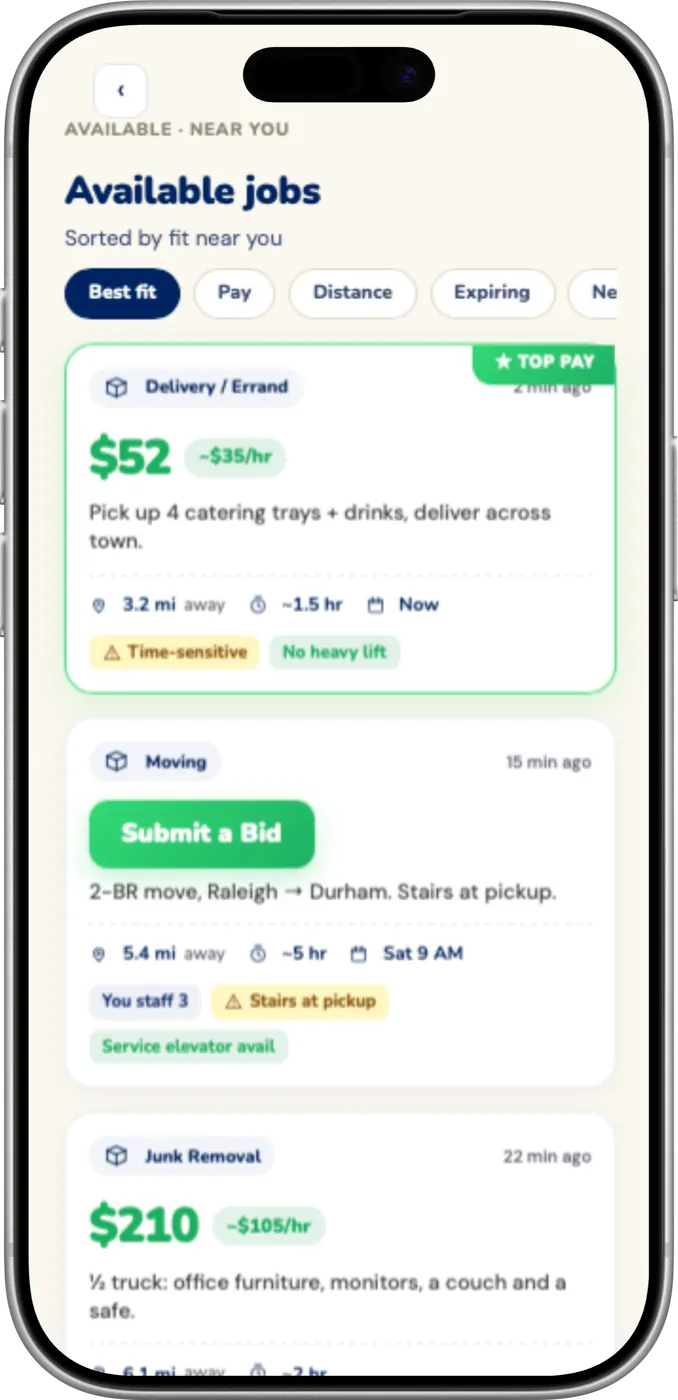
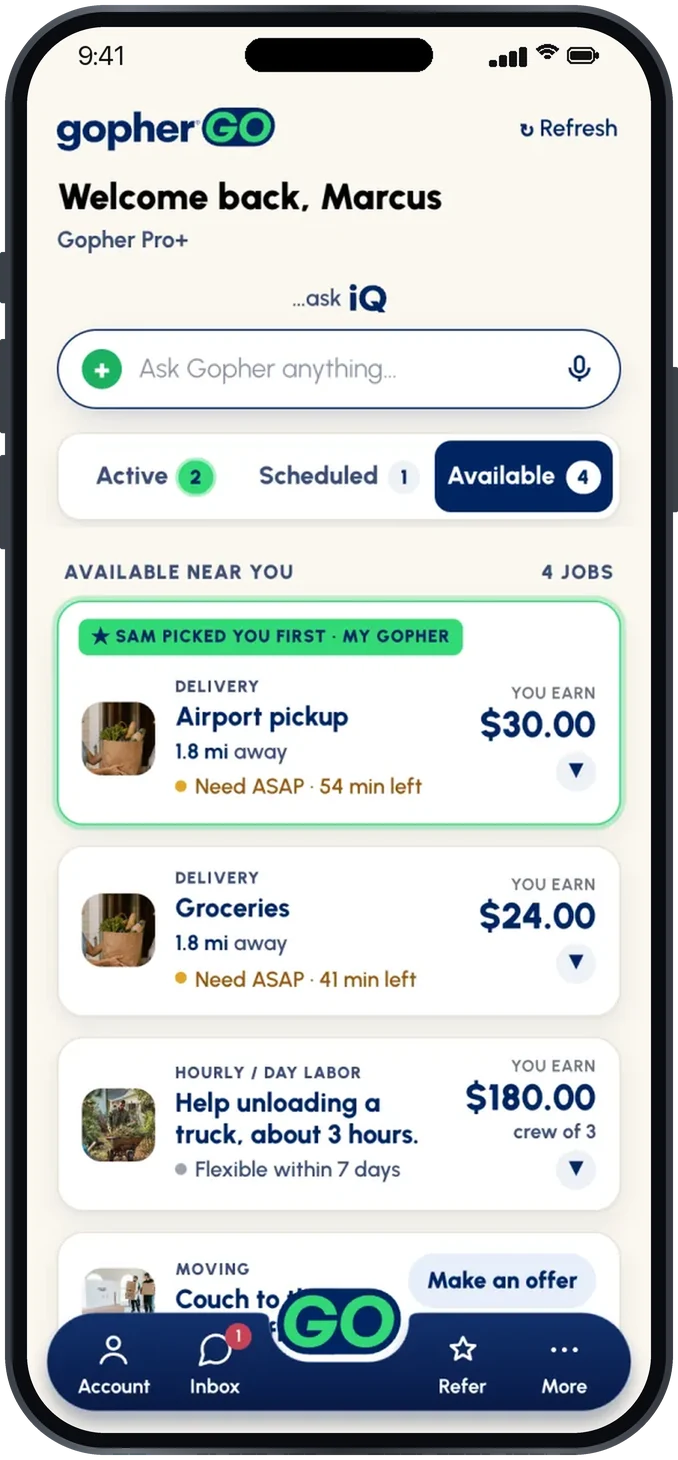
Deploy: Gopher Go page shows the real Go app (hero, Refer Yourself, job feed) (John's go 10/15)

diff --git a/gopher-go.html b/gopher-go.html
@@ -341,105 +341,20 @@
   .jobfeed .sec-title { color:white; }
   .jobfeed .sec-sub { color:rgba(255,255,255,0.6); }
 
-  .feed-grid {
-    display:grid; grid-template-columns:repeat(3,1fr); gap:16px;
-    position:relative;
-  }
-  .feed-col { display:flex; flex-direction:column; gap:16px; }
-  /* ── JOB CARDS (Figma component states) ── */
-  .job-card {
-    position:relative;
-    background:#fff;
-    border:1px solid #edf0f5;
-    border-radius:18px;
-    padding:15px;
-    display:flex; flex-direction:column; gap:5px;
-    box-shadow:0 3px 7px rgba(0,36,97,0.06);
-    overflow:hidden;
-    transition:transform 0.2s ease, box-shadow 0.2s ease;
-    cursor:default;
-  }
-  .job-card:hover { transform:translateY(-3px); box-shadow:0 10px 22px rgba(0,36,97,0.14); }
-  /* Top-Pay accent variant */
-  .job-card.is-toppay { border-color:#33d975; box-shadow:0 6px 10px rgba(51,217,117,0.2); }
-
-  .jc-top { display:flex; gap:6px; align-items:center; }
-  .jc-cat {
-    display:inline-flex; align-items:center; gap:7px;
-    background:#f2f4f9; border-radius:99px; padding:5px 9px 5px 8px;
-    flex-shrink:0;
-  }
-  .jc-cat svg { width:15px; height:15px; color:var(--green-dark); flex-shrink:0; }
-  .jc-cat span { font-family:'Nunito',sans-serif; font-weight:800; font-size:11px; color:var(--navy); white-space:nowrap; }
-  .jc-posted { margin-left:auto; font-family:'DM Sans',sans-serif; font-weight:600; font-size:10.5px; color:#6b7280; white-space:nowrap; }
-
-  .jc-pay { display:flex; align-items:center; gap:8px; min-height:40px; padding:11px 0 5px; }
-  .jc-pay .amt { font-family:'Nunito',sans-serif; font-weight:900; font-size:30px; line-height:30px; letter-spacing:-1px; color:var(--green-dark); }
-  .jc-pay .per { background:#e2f3e9; border-radius:99px; padding:4px 9px; font-family:'Nunito',sans-serif; font-weight:900; font-size:12px; color:var(--green-dark); }
-  .bid-cta {
-    display:inline-flex; align-items:center; padding:10px 20px; border-radius:12px;
-    background:linear-gradient(135deg, #33d975 0%, #1cb061 100%);
-    box-shadow:0 6px 8px rgba(51,217,117,0.35);
-    font-family:'Nunito',sans-serif; font-weight:900; font-size:16px; color:#fff;
-  }
-
-  .jc-scope { font-family:'DM Sans',sans-serif; font-weight:500; font-size:13px; color:#424242; line-height:18.2px; padding-bottom:6px; }
-
-  .jc-stats { display:flex; flex-wrap:wrap; gap:6px 14px; border-top:1px dashed #e7eaf1; padding-top:11px; }
-  .jc-stat { display:inline-flex; align-items:center; gap:6px; }
-  .jc-stat svg { width:12px; height:12px; color:var(--green-dark); flex-shrink:0; }
-  .jc-stat b { font-family:'Nunito',sans-serif; font-weight:700; font-size:11.5px; color:var(--navy); }
-  .jc-stat small { font-family:'Nunito',sans-serif; font-weight:600; font-size:9.6px; color:#6b7280; margin-left:-2px; }
-
-  .jc-flags { display:flex; flex-wrap:wrap; gap:6px; padding-top:6px; }
+  /* ── Real Gopher Go screens (owner 10/15) — replaced the HTML job-card
+     mock-up and its ~95 lines of card/lock/flag-variant styles. ── */
+  .feed-phones { display:flex; justify-content:center; gap:32px; margin:40px 0 0; }
+  .feed-phones figure { margin:0; flex:0 1 260px; text-align:center; }
+  .feed-phones img { width:100%; max-width:260px; height:auto; display:block; margin:0 auto;
+    filter:drop-shadow(0 22px 40px rgba(0,0,0,0.45)); }
+  .feed-phones figcaption { margin-top:14px; font-family:'Nunito',sans-serif; font-weight:800;
+    font-size:14px; color:rgba(255,255,255,0.82); }
+  /* .flag is still used elsewhere on this page */
   .flag {
     display:inline-flex; align-items:center; gap:4px; padding:4px 8px; border-radius:7px;
     font-family:'Nunito',sans-serif; font-weight:800; font-size:10px; white-space:nowrap;
   }
   .flag svg { width:12px; height:12px; flex-shrink:0; }
-  .flag.f-warn { background:#fff7c2; color:#92580d; }
-  .flag.f-good { background:#e2f3e9; color:#1cb061; }
-  .flag.f-info { background:#eef1f7; color:#1a3a7a; }
-  .flag.f-iq { background:#fff; border:1px dashed currentColor; padding:5px 9px; }
-  .flag.f-iq.iq-warn { color:#92580d; }
-  .flag.f-iq.iq-info { color:#1a3a7a; }
-  .iqm { display:inline-flex; align-items:center; justify-content:center; padding:1px 4px; border-radius:4px; background:currentColor; }
-  .iqm span { font-family:'Nunito',sans-serif; font-weight:900; font-size:8px; letter-spacing:0.3px; color:#fff; }
-
-  /* Ribbons (top-right) */
-  /* ── Corner rail (canonical, ported from assets/css/gopher-connect-uc.css +
-     the Go prototype). The source mark is a FRAMED WHITE PILL sitting IN the top
-     row, not a flush ribbon: 15px lockup, 4px/8px padding, 9px radius, hairline
-     border, soft shadow — identical sizing for the Connect and Deals marks.
-     The rail is a COLUMN so a TOP PAY badge stacks ABOVE the source mark instead
-     of colliding with it (owner, 2026-08-26), and `posted` moved to .jc-foot so
-     nothing crowds the corner. */
-  .jc-corner { margin-left:auto; display:inline-flex; flex-direction:column;
-    align-items:flex-end; gap:7px; flex:0 0 auto; }
-  .jc-badge { display:inline-flex; align-items:center; gap:5px; border-radius:9px; }
-  .jc-badge.mark { background:#fff; border:1px solid #e4e8f0; padding:4px 8px;
-    box-shadow:0 1px 3px rgba(0,36,97,.08); }
-  .jc-badge.mark img { height:15px; width:auto; display:block; }
-  .jc-badge.mark .lk { display:inline-flex; width:11px; height:11px; color:#7a869a; }
-  .jc-badge.mark .lk svg { width:11px; height:11px; display:block; }
-  .jc-badge.top { background:linear-gradient(135deg,#33d975 0%,#1cb061 100%); color:#fff;
-    font-family:'Nunito',sans-serif; font-weight:900; font-size:9.5px; letter-spacing:.3px;
-    padding:5px 10px; white-space:nowrap; }
-  /* the category chip yields rather than pushing the rail off the card */
-  .jc-top .jc-cat { flex:0 1 auto; min-width:0; overflow:hidden; text-overflow:ellipsis; white-space:nowrap; }
-  .jc-foot { display:flex; align-items:center; justify-content:space-between; gap:10px; margin-top:11px; }
-  .jc-foot .jc-flags { padding-top:0; flex:1 1 auto; }
-  .jc-foot .jc-posted { margin-left:auto; flex:0 0 auto; }
-
-  /* Locked states */
-  .lockwrap { opacity:0.45; display:flex; flex-direction:column; gap:5px; filter:saturate(0.6); }
-  .lock-cta {
-    display:flex; align-items:center; gap:8px; background:#eef0f8; border-radius:11px; padding:9px 11px; margin-top:6px;
-  }
-  .lock-cta > svg { width:13px; height:13px; color:var(--navy); flex-shrink:0; }
-  .lock-cta p { font-family:'Nunito',sans-serif; font-weight:800; font-size:11.5px; color:var(--navy); line-height:1.25; flex:1; }
-  .lock-cta p b { font-family:'Nunito',sans-serif; font-weight:900; color:var(--green-dark); }
-  .lock-cta .lgo { background:var(--green-dark); border-radius:99px; padding:6px 11px; font-family:'Nunito',sans-serif; font-weight:900; font-size:11px; color:#fff; white-space:nowrap; flex-shrink:0; }
 
   .feed-cta { text-align:center; margin-top:40px; }
   .feed-cta p { color:rgba(255,255,255,0.55); font-size:15px; margin-bottom:20px; }
@@ -517,27 +432,12 @@
 
   /* Share-card visual */
   .gg-feature-visual { display:flex; justify-content:center; }
-  .gg-share-card {
-    width:100%; max-width:300px; background:#fff; border-radius:20px;
-    padding:26px 24px; box-shadow:0 20px 50px rgba(0,0,0,0.4);
+  /* Real app screen in place of the old HTML share card (owner 10/15). */
+  .gg-feature-phone {
+    width:100%; max-width:260px; height:auto; display:block;
+    filter:drop-shadow(0 20px 50px rgba(0,0,0,0.45));
     animation:ggFloat 5s ease-in-out infinite;
   }
-  .gg-share-top { display:flex; align-items:center; justify-content:space-between; margin-bottom:18px; }
-  .gg-share-label { font-family:'Nunito',sans-serif; font-weight:800; font-size:13px; color:var(--navy); }
-  .gg-share-dot { width:9px; height:9px; border-radius:50%; background:var(--green); animation:blink 1.6s infinite; }
-  .gg-qr { display:flex; justify-content:center; padding:10px 0 16px; }
-  .gg-qr img { width:150px; height:auto; display:block; }
-  .gg-share-link {
-    text-align:center; font-family:'DM Sans',sans-serif; font-size:14px;
-    color:var(--muted); background:var(--gray); border-radius:8px; padding:9px;
-    margin-bottom:16px;
-  }
-  .gg-share-link strong { color:var(--green-dark); }
-  .gg-share-foot {
-    display:flex; align-items:center; justify-content:center; gap:8px;
-    font-family:'Nunito',sans-serif; font-weight:700; font-size:12.5px; color:var(--navy);
-  }
-  .gg-share-pulse { width:8px; height:8px; border-radius:50%; background:var(--green); box-shadow:0 0 0 0 rgba(51,217,117,0.6); animation:ggPulse 1.8s infinite; }
 
   /* Supporting feature cards */
   .gg-grid { display:grid; grid-template-columns:repeat(3,1fr); gap:22px; }
@@ -560,7 +460,7 @@
   @keyframes ggFloat { 0%,100% { transform:translateY(0); } 50% { transform:translateY(-10px); } }
   @keyframes ggPulse { 0% { box-shadow:0 0 0 0 rgba(51,217,117,0.5); } 70% { box-shadow:0 0 0 10px rgba(51,217,117,0); } 100% { box-shadow:0 0 0 0 rgba(51,217,117,0); } }
   @media (prefers-reduced-motion: reduce) {
-    .gg-feature, .gg-share-card, .gg-share-pulse, .gg-share-dot { animation:none; }
+    .gg-feature, .gg-feature-phone { animation:none; }
   }
 
   /* ── HOW IT WORKS ── */
@@ -728,11 +628,14 @@
     .hero-phone { order:2; }
     .device { width:250px; }
     .pillars { grid-template-columns:1fr 1fr; }
-    .feed-grid { grid-template-columns:1fr; }
+    /* phones: swipe sideways, one and a bit on screen */
+    .feed-phones { justify-content:flex-start; overflow-x:auto; scroll-snap-type:x mandatory; gap:18px; padding-bottom:8px; }
+    .feed-phones figure { flex:0 0 72%; scroll-snap-align:center; }
     .gg-grid { grid-template-columns:1fr; }
     .gogetter { padding:64px 24px; }
     .gg-feature { grid-template-columns:1fr; gap:36px; padding:32px 26px; }
     .gg-feature-visual { order:-1; }
+    .gg-feature-phone { max-width:200px; }
     .gg-feature-copy h3 { font-size:32px; }
     .gg-feature-cta { flex-direction:column; align-items:flex-start; gap:16px; }
     .free-strip-inner { gap:18px; }
@@ -1209,75 +1112,16 @@
     <p class="sec-label">Real jobs, right now</p>
     <h2 class="sec-title" style="color:white">From $10 errands to<br>$500 paydays.</h2>
     <p class="sec-sub">A taste of what Gophers pick up every day. Hundreds post across the US — these could be in your feed by tonight.</p>
-    <div class="feed-grid">
-      <div class="feed-col">
-        <div class="job-card is-toppay">
-          <div class="jc-top"><span class="jc-cat"><svg viewBox="0 0 24 24" fill="currentColor"><path d="M12 2l1.8 5.2L19 9l-5.2 1.8L12 16l-1.8-5.2L5 9l5.2-1.8L12 2Z"/></svg><span>Seasonal</span></span><span class="jc-corner"><span class="jc-badge top">&#9733; TOP PAY</span></span></div>
-          <div class="jc-pay"><span class="amt">$275</span><span class="per">~$55/hr</span></div>
-          <div class="jc-scope">Install Christmas lights on my 2-story house. All lights and hooks ready to go.</div>
-          <div class="jc-stats"><span class="jc-stat"><svg viewBox="0 0 24 24" fill="none" stroke="currentColor" stroke-width="2.2" stroke-linecap="round" stroke-linejoin="round"><path d="M12 21s-7-6.5-7-11a7 7 0 0 1 14 0c0 4.5-7 11-7 11Z"/><circle cx="12" cy="10" r="2.3"/></svg><b>2.4 mi</b><small>away</small></span><span class="jc-stat"><svg viewBox="0 0 24 24" fill="none" stroke="currentColor" stroke-width="2.2" stroke-linecap="round" stroke-linejoin="round"><circle cx="12" cy="12" r="9"/><path d="M12 7.5V12l3 2"/></svg><b>~5 hr</b></span><span class="jc-stat"><svg viewBox="0 0 24 24" fill="none" stroke="currentColor" stroke-width="2.2" stroke-linecap="round" stroke-linejoin="round"><rect x="4" y="5" width="16" height="16" rx="2"/><path d="M8 3v4M16 3v4M4 10h16"/></svg><b>This week</b></span></div>
-          <div class="jc-foot">
-<div class="jc-flags"><span class="flag f-warn"><svg viewBox="0 0 24 24" fill="currentColor"><path d="M13 2 4 14h6l-1 8 9-12h-6l1-8Z"/></svg>Ladder needed</span><span class="flag f-good">Materials ready</span></div>
-<span class="jc-posted">3 min ago</span>
-</div>
-        </div>
-        <div class="job-card">
-          <div class="jc-top"><span class="jc-cat"><svg viewBox="0 0 24 24" fill="none" stroke="currentColor" stroke-width="2" stroke-linecap="round" stroke-linejoin="round"><path d="M15.5 4.5a4 4 0 0 0-5.3 5.1l-6.2 6.2 2.8 2.8 6.2-6.2a4 4 0 0 0 5.1-5.3l-2.6 2.6-2.1-2.1 2.1-2.1Z"/></svg><span>Hourly / Day Labor</span></span><span class="jc-corner"><span class="jc-badge mark connect"><span class="lk"><svg viewBox="0 0 24 24" fill="none" stroke="currentColor" stroke-width="2.2" stroke-linecap="round" stroke-linejoin="round"><rect x="5" y="11" width="14" height="9" rx="2"/><path d="M8 11V8a4 4 0 0 1 8 0v3"/></svg></span><img src="assets/img/connect-mark.png" alt="Gopher Connect"></span></span></div>
-<div class="lockwrap">
-                        <div class="jc-pay"><span class="amt">$200</span><span class="per">~$50/hr</span></div>
-            <div class="jc-scope">Need 2 people for 2 hrs to break down tables &amp; chairs after a wedding reception.</div>
-            <div class="jc-stats"><span class="jc-stat"><svg viewBox="0 0 24 24" fill="none" stroke="currentColor" stroke-width="2.2" stroke-linecap="round" stroke-linejoin="round"><path d="M12 21s-7-6.5-7-11a7 7 0 0 1 14 0c0 4.5-7 11-7 11Z"/><circle cx="12" cy="10" r="2.3"/></svg><b>4.0 mi</b><small>away</small></span><span class="jc-stat"><svg viewBox="0 0 24 24" fill="none" stroke="currentColor" stroke-width="2.2" stroke-linecap="round" stroke-linejoin="round"><circle cx="12" cy="12" r="9"/><path d="M12 7.5V12l3 2"/></svg><b>~2 hr</b></span></div>
-            <div class="jc-foot">
-<div class="jc-flags"><span class="flag f-info">1 of 2 crew</span></div>
-<span class="jc-posted">19 min ago</span>
-</div>
-          </div>
-          <div class="lock-cta"><svg viewBox="0 0 24 24" fill="none" stroke="currentColor" stroke-width="2.2" stroke-linecap="round" stroke-linejoin="round"><rect x="5" y="11" width="14" height="9" rx="2"/><path d="M8 11V8a4 4 0 0 1 8 0v3"/></svg><p>Connect job &mdash; for <b>Gopher Elite &amp; Pros</b></p><span class="lgo">Tier up</span></div>
-        </div>
-      </div>
-      <div class="feed-col">
-        <div class="job-card">
-          <div class="jc-top"><span class="jc-cat"><svg viewBox="0 0 24 24" fill="none" stroke="currentColor" stroke-width="2" stroke-linecap="round" stroke-linejoin="round"><path d="M2 7h11v9H2zM13 10h4l3 3v3h-7z"/><circle cx="6" cy="18" r="1.7"/><circle cx="17" cy="18" r="1.7"/></svg><span>Moving</span></span></div>
-          <div class="jc-pay"><span class="bid-cta">Submit a Bid</span></div>
-          <div class="jc-scope">Need 2 people to move me from a small 1-bedroom apartment to another 1-bedroom across town. Not much stuff &mdash; just need the muscle.</div>
-          <div class="jc-stats"><span class="jc-stat"><svg viewBox="0 0 24 24" fill="none" stroke="currentColor" stroke-width="2.2" stroke-linecap="round" stroke-linejoin="round"><path d="M12 21s-7-6.5-7-11a7 7 0 0 1 14 0c0 4.5-7 11-7 11Z"/><circle cx="12" cy="10" r="2.3"/></svg><b>5.4 mi</b><small>away</small></span><span class="jc-stat"><svg viewBox="0 0 24 24" fill="none" stroke="currentColor" stroke-width="2.2" stroke-linecap="round" stroke-linejoin="round"><circle cx="12" cy="12" r="9"/><path d="M12 7.5V12l3 2"/></svg><b>~3 hr</b></span><span class="jc-stat"><svg viewBox="0 0 24 24" fill="none" stroke="currentColor" stroke-width="2.2" stroke-linecap="round" stroke-linejoin="round"><rect x="4" y="5" width="16" height="16" rx="2"/><path d="M8 3v4M16 3v4M4 10h16"/></svg><b>Sat 9 AM</b></span></div>
-          <div class="jc-foot">
-<div class="jc-flags"><span class="flag f-info">You staff 2</span><span class="flag f-warn"><svg viewBox="0 0 24 24" fill="none" stroke="currentColor" stroke-width="2" stroke-linecap="round" stroke-linejoin="round"><path d="M4 20h4v-4h4v-4h4V8h4"/></svg>Stairs at pickup</span></div>
-<span class="jc-posted">8 min ago</span>
-</div>
-        </div>
-        <div class="job-card">
-          <div class="jc-top"><span class="jc-cat"><svg viewBox="0 0 24 24" fill="none" stroke="currentColor" stroke-width="2" stroke-linecap="round" stroke-linejoin="round"><path d="M3 21l8-8M13 7l4 4 3.5-3.5-4-4L13 7Z"/><path d="M11 9l4 4"/></svg><span>Handyman</span></span></div>
-          <div class="jc-pay"><span class="amt">$75</span><span class="per">~$50/hr</span></div>
-          <div class="jc-scope">Hang a 65&quot; TV. I have the mount. Drywall install, one-story home.</div>
-          <div class="jc-stats"><span class="jc-stat"><svg viewBox="0 0 24 24" fill="none" stroke="currentColor" stroke-width="2.2" stroke-linecap="round" stroke-linejoin="round"><path d="M12 21s-7-6.5-7-11a7 7 0 0 1 14 0c0 4.5-7 11-7 11Z"/><circle cx="12" cy="10" r="2.3"/></svg><b>3.1 mi</b><small>away</small></span><span class="jc-stat"><svg viewBox="0 0 24 24" fill="none" stroke="currentColor" stroke-width="2.2" stroke-linecap="round" stroke-linejoin="round"><circle cx="12" cy="12" r="9"/><path d="M12 7.5V12l3 2"/></svg><b>~1.5 hr</b></span></div>
-          <div class="jc-foot">
-<div class="jc-flags"><span class="flag f-info">Mount supplied</span><span class="flag f-iq iq-warn"><span class="iqm"><span>iQ</span></span>Heavy item</span><span class="flag f-iq iq-info"><span class="iqm"><span>iQ</span></span>Stud-mount</span></div>
-<span class="jc-posted">11 min ago</span>
-</div>
-        </div>
-      </div>
-      <div class="feed-col">
-        <div class="job-card">
-          <div class="jc-top"><span class="jc-cat"><svg viewBox="0 0 24 24" fill="none" stroke="currentColor" stroke-width="2" stroke-linecap="round" stroke-linejoin="round"><path d="M6 7h12l1 13H5L6 7Z"/><path d="M9 7a3 3 0 0 1 6 0"/></svg><span>Delivery / Errand</span></span></div>
-          <div class="jc-pay"><span class="amt">$50</span><span class="per">~$40/hr</span></div>
-          <div class="jc-scope">Anniversary emergency! Need a bouquet delivered. Text me pics of what&rsquo;s available, $60&ndash;$80.</div>
-          <div class="jc-stats"><span class="jc-stat"><svg viewBox="0 0 24 24" fill="none" stroke="currentColor" stroke-width="2.2" stroke-linecap="round" stroke-linejoin="round"><path d="M12 21s-7-6.5-7-11a7 7 0 0 1 14 0c0 4.5-7 11-7 11Z"/><circle cx="12" cy="10" r="2.3"/></svg><b>1.8 mi</b><small>away</small></span><span class="jc-stat"><svg viewBox="0 0 24 24" fill="none" stroke="currentColor" stroke-width="2.2" stroke-linecap="round" stroke-linejoin="round"><circle cx="12" cy="12" r="9"/><path d="M12 7.5V12l3 2"/></svg><b>~1 hr</b></span><span class="jc-stat"><svg viewBox="0 0 24 24" fill="currentColor"><path d="M13 2 4 14h6l-1 8 9-12h-6l1-8Z"/></svg><b>Now</b></span></div>
-          <div class="jc-foot">
-<div class="jc-flags"><span class="flag f-warn"><svg viewBox="0 0 24 24" fill="currentColor"><path d="M13 2 4 14h6l-1 8 9-12h-6l1-8Z"/></svg>Time-sensitive</span><span class="flag f-good">No heavy lift</span></div>
-<span class="jc-posted">4 min ago</span>
-</div>
-        </div>
-        <div class="job-card">
-          <div class="jc-top"><span class="jc-cat"><svg viewBox="0 0 24 24" fill="none" stroke="currentColor" stroke-width="2" stroke-linecap="round" stroke-linejoin="round"><path d="M6 7h12l1 13H5L6 7Z"/><path d="M9 7a3 3 0 0 1 6 0"/></svg><span>Delivery / Errand</span></span><span class="jc-corner"><span class="jc-badge mark deal"><span class="lk"><svg viewBox="0 0 24 24" fill="none" stroke="currentColor" stroke-width="2.2" stroke-linecap="round" stroke-linejoin="round"><rect x="5" y="11" width="14" height="9" rx="2"/><path d="M8 11V8a4 4 0 0 1 8 0v3"/></svg></span><img src="assets/img/deals-mark.png" alt="Gopher Deals"></span></span></div>
-<div class="lockwrap">
-                        <div class="jc-pay"><span class="amt">$10</span><span class="per">~$30/hr</span></div>
-            <div class="jc-scope">Deals Request &mdash; My Way Tavern Delivery</div>
-            <div class="jc-stats"><span class="jc-stat"><svg viewBox="0 0 24 24" fill="none" stroke="currentColor" stroke-width="2.2" stroke-linecap="round" stroke-linejoin="round"><path d="M12 21s-7-6.5-7-11a7 7 0 0 1 14 0c0 4.5-7 11-7 11Z"/><circle cx="12" cy="10" r="2.3"/></svg><b>0.9 mi</b><small>away</small></span><span class="jc-stat"><svg viewBox="0 0 24 24" fill="currentColor"><path d="M13 2 4 14h6l-1 8 9-12h-6l1-8Z"/></svg><b>Now</b></span></div>
-          </div>
-          <div class="lock-cta"><svg viewBox="0 0 24 24" fill="none" stroke="currentColor" stroke-width="2.2" stroke-linecap="round" stroke-linejoin="round"><rect x="5" y="11" width="14" height="9" rx="2"/><path d="M8 11V8a4 4 0 0 1 8 0v3"/></svg><p>Gopher Deal &mdash; unlocks once <b>verified</b></p><span class="lgo">Tier up</span></div>
-        </div>
-      </div>
+    <!-- REAL Gopher Go screens (101 captures, 10/13), owner 10/15: real app
+         screens instead of the HTML job-card mock-up. Browse -> name your price ->
+         get paid. Re-run after the G40-604 app restyle; same filenames. -->
+    <div class="feed-phones">
+      <figure><img src="assets/img/go-feed-card-expanded.webp" width="520" height="1120" loading="lazy"
+           alt="Gopher Go: jobs available near you with what you earn, one opened to show the details"><figcaption>See what's near you &mdash; and what it pays</figcaption></figure>
+      <figure><img src="assets/img/go-feed-offer.webp" width="520" height="1120" loading="lazy"
+           alt="Gopher Go: Make an offer, naming your own price for a request with no price set"><figcaption>No price set? Name yours</figcaption></figure>
+      <figure><img src="assets/img/go-feed-history.webp" width="520" height="1120" loading="lazy"
+           alt="Gopher Go: request history with what you earned on each job"><figcaption>Get paid &mdash; every job, on the record</figcaption></figure>
     </div>
     <div class="feed-cta">
       <p>Just a sample — the real feed is whatever's posting near you, the moment it posts.</p>
@@ -1312,18 +1156,14 @@
           <a href="blog-refer-yourself.html" class="gg-link">Read how Refer Yourself works <span aria-hidden="true">&rarr;</span></a>
         </div>
       </div>
-      <div class="gg-feature-visual" aria-hidden="true">
-        <div class="gg-share-card">
-          <div class="gg-share-top">
-            <span class="gg-share-label">Your refer yourself link</span>
-            <span class="gg-share-dot"></span>
-          </div>
-          <div class="gg-qr">
-            <img src="assets/img/go-gg-share-label.png" alt="Scan John Newbury's Gopher Refer Yourself QR code" width="150" height="148">
-          </div>
-          <div class="gg-share-link">gophergo.io/r/<strong>you</strong></div>
-          <div class="gg-share-foot"><span class="gg-share-pulse"></span> New request routed to you</div>
-        </div>
+      <div class="gg-feature-visual">
+        <!-- The REAL Gopher Go Refer screen (101 capture, 10/13), owner 10/15: real
+             screens instead of HTML mock-ups. Its QR is the one this card always
+             carried (api.gophergo.io/self-referral/1), re-drawn into the screen;
+             the capture's own QR was a placeholder (example.com). Verified to scan. -->
+        <img class="gg-feature-phone" src="assets/img/go-refer-yourself-phone.webp"
+             alt="The Gopher Go app's Refer Yourself screen, with a scannable QR code, Refer via SMS and Refer via email"
+             width="640" height="1379">
       </div>
     </div>
 
